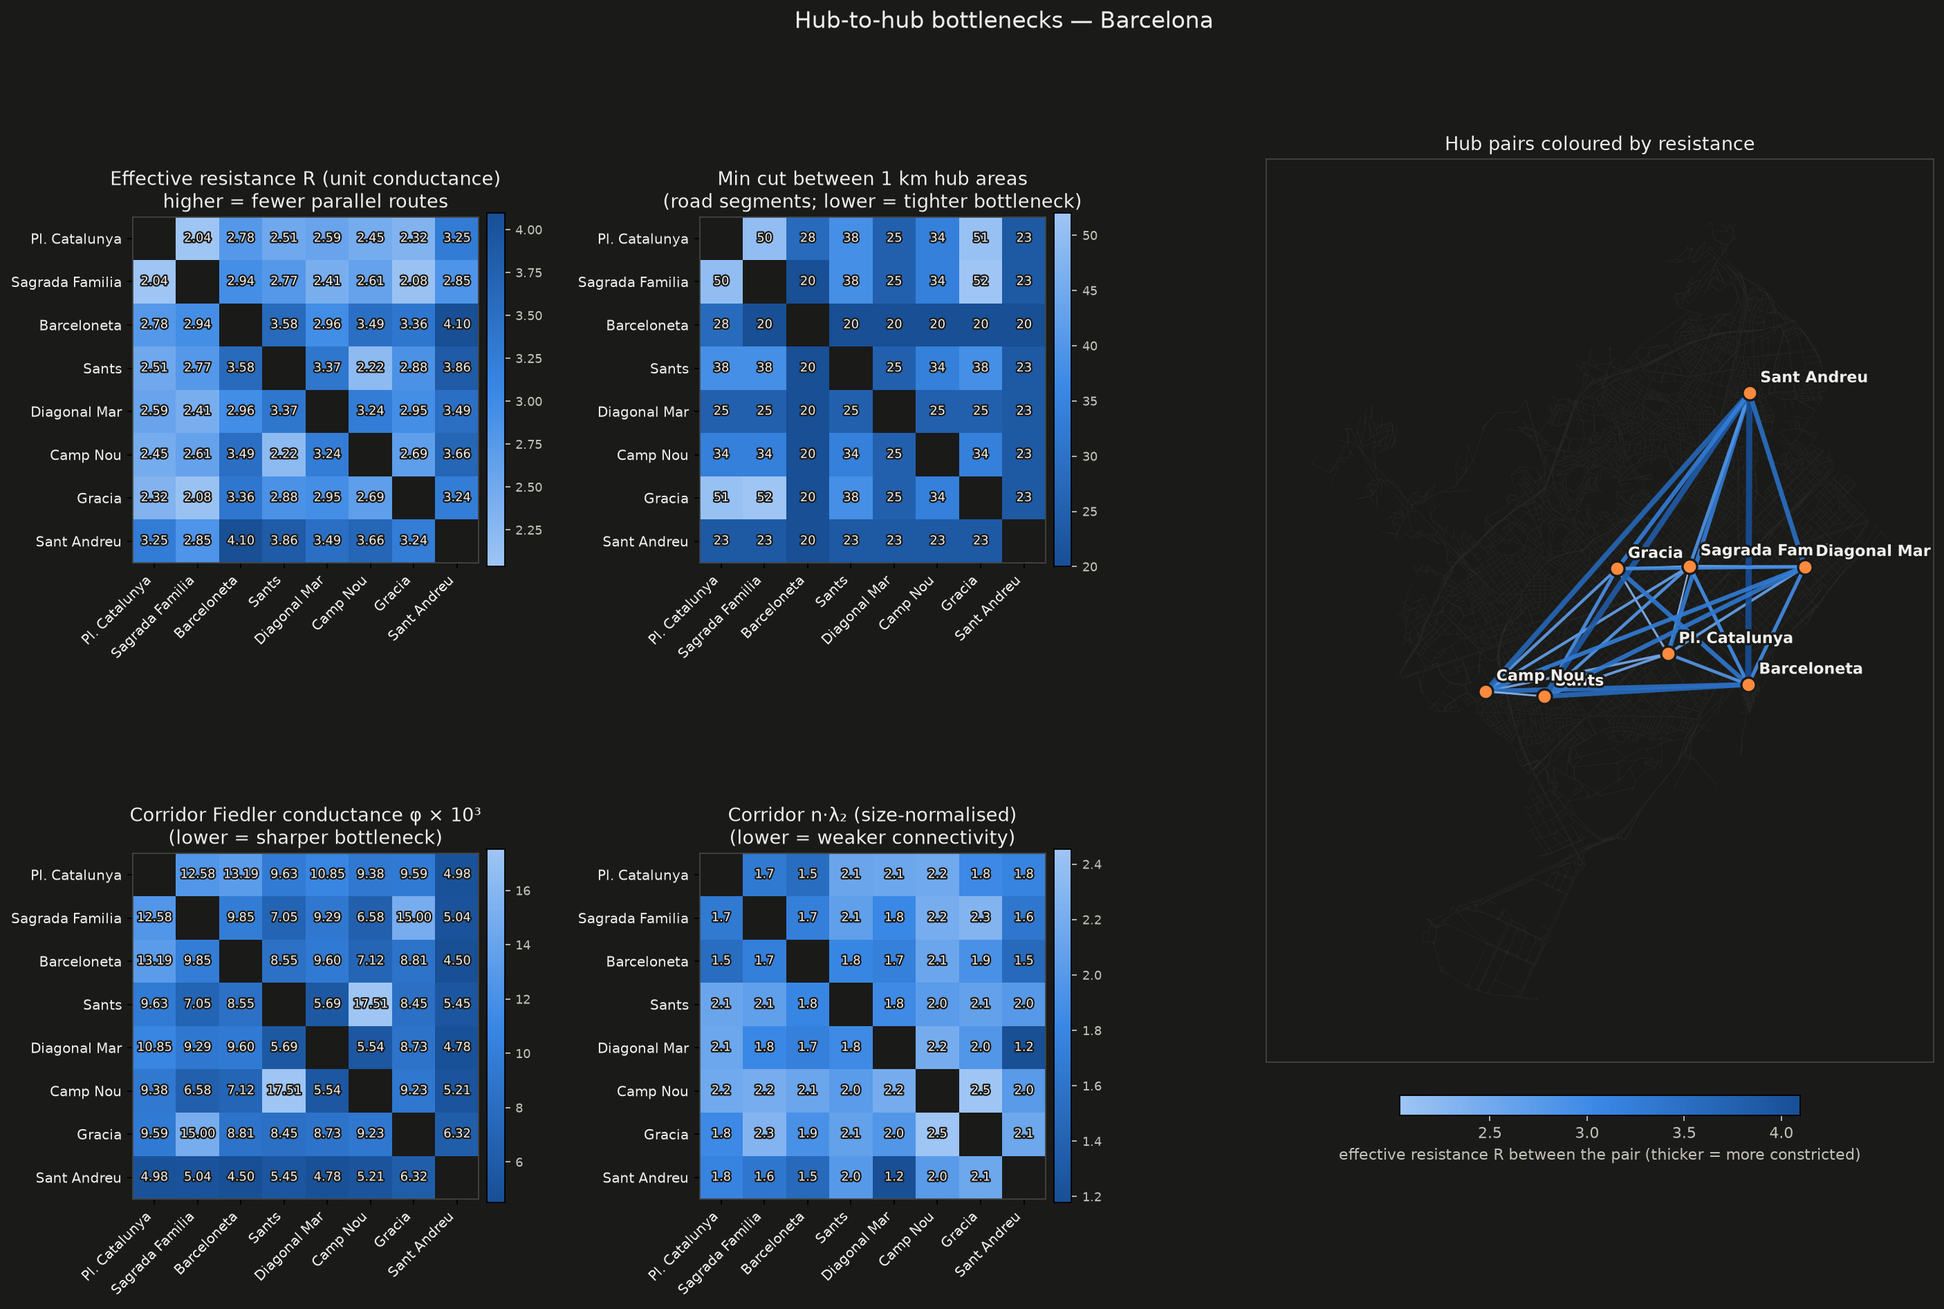
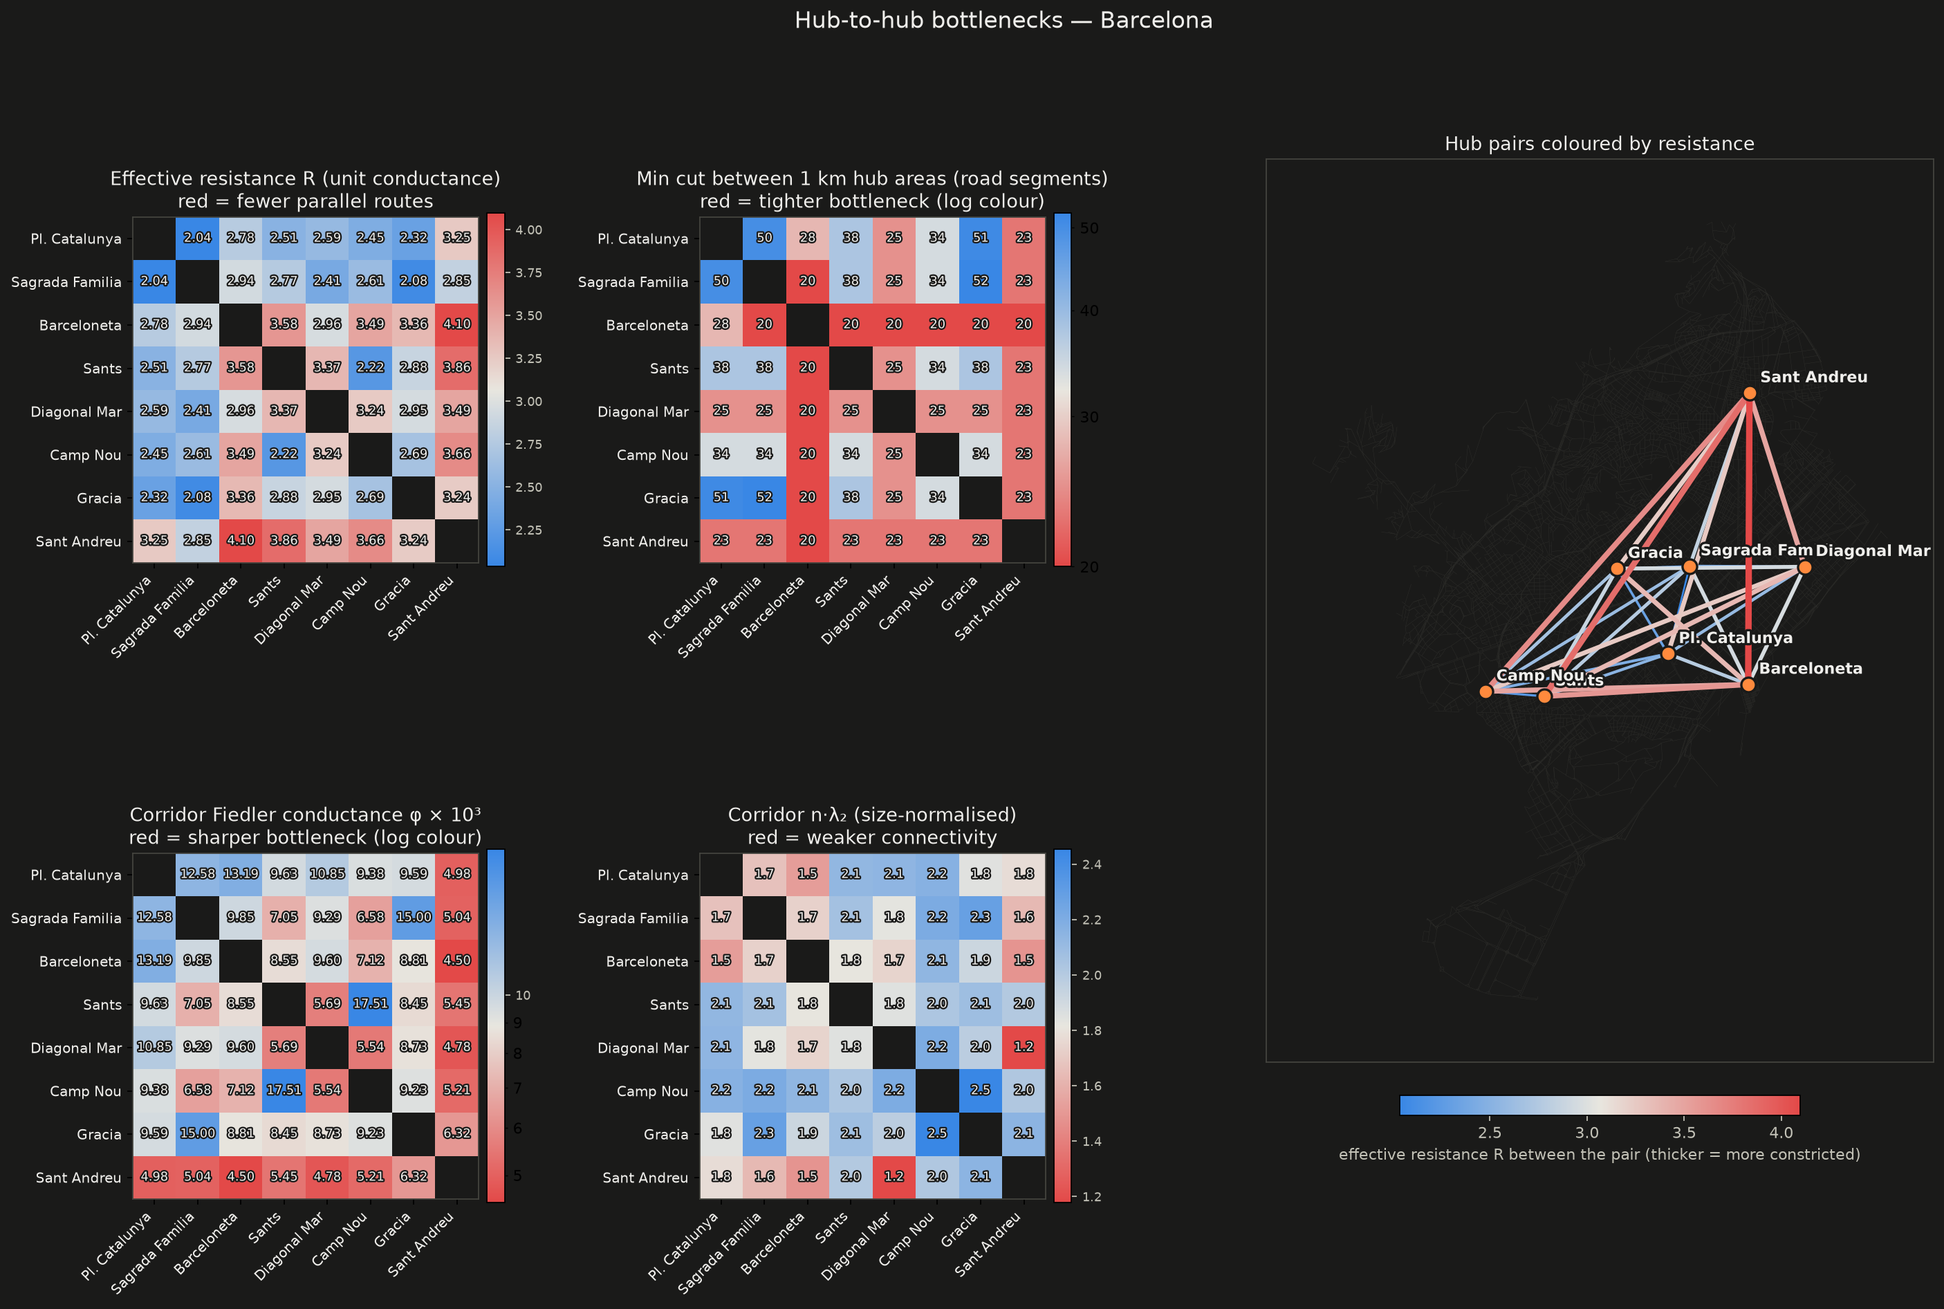
Hub bottleneck figures: red-blue diverging colours, --plot-only redraw
Red = worse connection (high R, low min cut, low phi, low n*lambda_2), blue = better,
light neutral midpoint; log colour for min cut and phi. --plot-only redraws the
figure from the saved CSV without the LU / min-cut recompute.

diff --git a/hub_bottlenecks.py b/hub_bottlenecks.py
@@ -15,7 +15,7 @@ Bottlenecks between named hubs of a city, three ways per hub pair:
 Hub coordinates are approximate centres, snapped to the nearest junction; hubs more than
 1.5 km from the network (outside the municipal boundary) are dropped.
 
-Usage:  python hub_bottlenecks.py [path/to/graph.graphml]
+Usage:  python hub_bottlenecks.py [path/to/graph.graphml] [--plot-only]
 Writes results/<tag>_hub_bottlenecks.csv, results/<tag>_hub_bottlenecks_report.txt,
 figures/<tag>_hub_bottlenecks_dark.png
 """
@@ -39,7 +39,9 @@ from scipy.spatial import cKDTree
 from graph_utils import classify_cuts, load_simple, log, set_min_cut, sweep_cut, to_km
 
 sys.stdout.reconfigure(encoding="utf-8")
-GRAPH = sys.argv[1] if len(sys.argv) > 1 else "data/bengaluru_city_bengaluru_drive.graphml"
+ARGS = [a for a in sys.argv[1:] if not a.startswith("--")]
+PLOT_ONLY = "--plot-only" in sys.argv          # redraw the figure from the saved CSV
+GRAPH = ARGS[0] if ARGS else "data/bengaluru_city_bengaluru_drive.graphml"
 tag = os.path.splitext(os.path.basename(GRAPH))[0]
 CITY = tag.split("_")[0].capitalize()
 os.makedirs("figures", exist_ok=True)
@@ -83,109 +85,119 @@ for name, (la, lo) in HUBS[tag.split("_")[0]].items():
     log(f"hub {name:16s} -> node {nodes[i]} ({d * 1000:.0f} m away)")
 H = len(hubs)
 hix = np.array([i for _, i in hubs])
-# roads leaving each hub's 1 km area: a pair's min cut can never exceed the smaller of the two
-area = [{nodes[i] for i in tree.query_ball_point(P[h], NBHD_KM)} for _, h in hubs]
-area_out = [sum(1 for _ in nx.edge_boundary(S, a_)) for a_ in area]
-for (n_, _), k_ in zip(hubs, area_out):
-    log(f"  {n_:16s}: {k_} road segments leave its {NBHD_KM:.0f} km area")
+if not PLOT_ONLY:
+    # roads leaving each hub's 1 km area: a pair's min cut can never exceed the smaller of the two
+    area = [{nodes[i] for i in tree.query_ball_point(P[h], NBHD_KM)} for _, h in hubs]
+    area_out = [sum(1 for _ in nx.edge_boundary(S, a_)) for a_ in area]
+    for (n_, _), k_ in zip(hubs, area_out):
+        log(f"  {n_:16s}: {k_} road segments leave its {NBHD_KM:.0f} km area")
 
-# ---------------------------------------------------------------- 1. effective resistance
-def resistance_matrix(weight):
-    A = nx.to_scipy_sparse_array(S, nodelist=nodes, weight=weight, format="csr", dtype=float)
-    if weight == "length":
-        A.data = 1.0 / np.maximum(A.data / 1000.0, 1e-3)    # conductance = 1 / length (km)
-    L = laplacian(A).tocsc()
-    g = next(i for i in range(len(nodes)) if i not in set(hix))   # ground a non-hub node
-    keep = np.ones(len(nodes), bool)
-    keep[g] = False
-    Lg = L[keep][:, keep].tocsc()
-    pos_in_g = np.cumsum(keep) - 1
-    t0 = time.time()
-    lu = splu(Lg)
-    B = np.zeros((Lg.shape[0], H))
-    B[pos_in_g[hix], np.arange(H)] = 1.0
-    X = lu.solve(B)[pos_in_g[hix]]                    # H x H block of Lg^-1
-    log(f"effective resistance ({weight or 'unit'}) via LU [{time.time() - t0:.0f}s]")
-    d = np.diag(X)
-    return d[:, None] + d[None, :] - 2 * X
+    # ---------------------------------------------------------------- 1. effective resistance
+    def resistance_matrix(weight):
+        A = nx.to_scipy_sparse_array(S, nodelist=nodes, weight=weight, format="csr", dtype=float)
+        if weight == "length":
+            A.data = 1.0 / np.maximum(A.data / 1000.0, 1e-3)    # conductance = 1 / length (km)
+        L = laplacian(A).tocsc()
+        g = next(i for i in range(len(nodes)) if i not in set(hix))   # ground a non-hub node
+        keep = np.ones(len(nodes), bool)
+        keep[g] = False
+        Lg = L[keep][:, keep].tocsc()
+        pos_in_g = np.cumsum(keep) - 1
+        t0 = time.time()
+        lu = splu(Lg)
+        B = np.zeros((Lg.shape[0], H))
+        B[pos_in_g[hix], np.arange(H)] = 1.0
+        X = lu.solve(B)[pos_in_g[hix]]                    # H x H block of Lg^-1
+        log(f"effective resistance ({weight or 'unit'}) via LU [{time.time() - t0:.0f}s]")
+        d = np.diag(X)
+        return d[:, None] + d[None, :] - 2 * X
 
 
-R_unit = resistance_matrix(None)
-R_len = resistance_matrix("length")
+    R_unit = resistance_matrix(None)
+    R_len = resistance_matrix("length")
 
-# ---------------------------------------------------------------- 2 + 3. corridors and min cuts
-rows = []
-for a, b in itertools.combinations(range(H), 2):
-    (na, ia), (nb, ib) = hubs[a], hubs[b]
-    pa, pb = P[ia], P[ib]
-    dab = float(np.hypot(*(pa - pb)))
-    ell = np.hypot(*(P - pa).T) + np.hypot(*(P - pb).T) <= 1.3 * dab + 2.0
-    C = S.subgraph([nodes[i] for i in np.flatnonzero(ell)])
-    C = C.subgraph(max(nx.connected_components(C), key=len)).copy()
-    cn = list(C.nodes)
-    Ac = nx.to_scipy_sparse_array(C, nodelist=cn, weight=None, format="csr", dtype=float)
-    sw = sweep_cut(Ac)
-    ci = {u: i for i, u in enumerate(cn)}
-    splits = (nodes[ia] in ci and nodes[ib] in ci and sw["side"][ci[nodes[ia]]] != sw["side"][ci[nodes[ib]]])
+    # ---------------------------------------------------------------- 2 + 3. corridors and min cuts
+    rows = []
+    for a, b in itertools.combinations(range(H), 2):
+        (na, ia), (nb, ib) = hubs[a], hubs[b]
+        pa, pb = P[ia], P[ib]
+        dab = float(np.hypot(*(pa - pb)))
+        ell = np.hypot(*(P - pa).T) + np.hypot(*(P - pb).T) <= 1.3 * dab + 2.0
+        C = S.subgraph([nodes[i] for i in np.flatnonzero(ell)])
+        C = C.subgraph(max(nx.connected_components(C), key=len)).copy()
+        cn = list(C.nodes)
+        Ac = nx.to_scipy_sparse_array(C, nodelist=cn, weight=None, format="csr", dtype=float)
+        sw = sweep_cut(Ac)
+        ci = {u: i for i, u in enumerate(cn)}
+        splits = (nodes[ia] in ci and nodes[ib] in ci and sw["side"][ci[nodes[ia]]] != sw["side"][ci[nodes[ib]]])
 
-    src, snk = area[a], area[b]
-    common = src & snk
-    t0 = time.time()
-    cut, cut_edges = set_min_cut(S, src - common, snk - common)
-    limit = (f"{na} access roads" if cut == area_out[a] else f"{nb} access roads" if cut == area_out[b] else "")
-    rows.append(dict(hub_a=na, hub_b=nb, dist_km=dab, R_unit=R_unit[a, b], R_len_km=R_len[a, b],
-                     corridor_n=len(cn), lam2=sw["lam2"], n_lam2=len(cn) * sw["lam2"], phi=sw["phi_bal"],
-                     sweep_cut_edges=sw["n_cut"], splits=bool(splits), min_cut=cut, cut_limited_by=limit,
-                     src_n=len(src), snk_n=len(snk)))
-    log(f"{na} - {nb}: d={dab:.1f} km  R={R_unit[a, b]:.2f}  phi={sw['phi_bal']:.2e}  "
-        f"min cut={cut}  [{time.time() - t0:.0f}s]")
+        src, snk = area[a], area[b]
+        common = src & snk
+        t0 = time.time()
+        cut, cut_edges = set_min_cut(S, src - common, snk - common)
+        limit = (f"{na} access roads" if cut == area_out[a] else f"{nb} access roads" if cut == area_out[b] else "")
+        rows.append(dict(hub_a=na, hub_b=nb, dist_km=dab, R_unit=R_unit[a, b], R_len_km=R_len[a, b],
+                         corridor_n=len(cn), lam2=sw["lam2"], n_lam2=len(cn) * sw["lam2"], phi=sw["phi_bal"],
+                         sweep_cut_edges=sw["n_cut"], splits=bool(splits), min_cut=cut, cut_limited_by=limit,
+                         src_n=len(src), snk_n=len(snk)))
+        log(f"{na} - {nb}: d={dab:.1f} km  R={R_unit[a, b]:.2f}  phi={sw['phi_bal']:.2e}  "
+            f"min cut={cut}  [{time.time() - t0:.0f}s]")
 
-# Where does each min cut sit? If a hub's cut is the same number to (nearly) every other hub,
-# the choke point is in that hub's own catchment, not in the corridor between the pair.
-where = classify_cuts([(r_["hub_a"], r_["hub_b"], r_["min_cut"]) for r_ in rows])
-for r_ in rows:
-    r_["cut_limited_by"] = r_["cut_limited_by"] or where[(r_["hub_a"], r_["hub_b"])]
+    # Where does each min cut sit? If a hub's cut is the same number to (nearly) every other hub,
+    # the choke point is in that hub's own catchment, not in the corridor between the pair.
+    where = classify_cuts([(r_["hub_a"], r_["hub_b"], r_["min_cut"]) for r_ in rows])
+    for r_ in rows:
+        r_["cut_limited_by"] = r_["cut_limited_by"] or where[(r_["hub_a"], r_["hub_b"])]
 
-with open(f"results/{tag}_hub_bottlenecks.csv", "w", newline="", encoding="utf-8") as f:
-    w = csv.DictWriter(f, fieldnames=list(rows[0]))
-    w.writeheader()
-    w.writerows(rows)
+    with open(f"results/{tag}_hub_bottlenecks.csv", "w", newline="", encoding="utf-8") as f:
+        w = csv.DictWriter(f, fieldnames=list(rows[0]))
+        w.writeheader()
+        w.writerows(rows)
 
-# ---------------------------------------------------------------- report
-rep = (f"================= Hub-to-hub bottlenecks: {tag} =================\n"
-       f"Graph: giant component, simple undirected, n = {len(nodes):,}, m = {S.number_of_edges():,}\n"
-       f"Hubs ({H}): " + ", ".join(n for n, _ in hubs) + "\n\n"
-       f"Road segments leaving each hub's {NBHD_KM:.0f} km area (an upper limit on every min cut involving it):\n  "
-       + ", ".join(f"{n_} {k_}" for (n_, _), k_ in zip(hubs, area_out)) + "\n\n"
-       f"{'pair':36s}{'km':>6s}{'R_unit':>8s}{'R_len':>8s}{'n·λ₂':>8s}{'φ':>10s}{'splits':>7s}{'min cut':>8s}"
-       f"  limited by\n")
-for r_ in sorted(rows, key=lambda r_: r_["min_cut"]):
-    rep += (f"{r_['hub_a'] + ' – ' + r_['hub_b']:36s}{r_['dist_km']:6.1f}{r_['R_unit']:8.2f}{r_['R_len_km']:8.2f}"
-            f"{r_['n_lam2']:8.2f}{r_['phi']:10.2e}{'yes' if r_['splits'] else 'no':>7s}{r_['min_cut']:8d}"
-            f"  {r_['cut_limited_by']}\n")
-Ru = np.array([r_["R_unit"] for r_ in rows])
-dk = np.array([r_["dist_km"] for r_ in rows])
-mc = np.array([r_["min_cut"] for r_ in rows])
-slope, icpt = np.polyfit(np.log(dk), Ru, 1)
-rep += (f"\nR_unit vs distance: R ≈ {icpt:.2f} + {slope:.2f}·ln(d km)  (a 2-D grid gives R ∝ ln d)\n"
-        f"Median R_unit {np.median(Ru):.2f}, median min cut {np.median(mc):.0f} segments, "
-        f"median corridor φ {np.median([r_['phi'] for r_ in rows]):.2e}\n"
-        f"Pairs whose corridor bottleneck lies between the hubs (splits = yes): "
-        f"{sum(r_['splits'] for r_ in rows)}/{len(rows)}\n"
-        f"Where the min cut sits: in one hub's own catchment (same cut to nearly every other hub) "
-        f"{sum(r_['cut_limited_by'].startswith('near ') for r_ in rows)}/{len(rows)}, "
-        f"in the corridor between the hubs {sum(r_['cut_limited_by'] == 'between hubs' for r_ in rows)}/{len(rows)}, "
-        f"at a hub's 1 km access roads {sum(r_['cut_limited_by'].endswith('access roads') for r_ in rows)}/{len(rows)}\n"
-        f"Choked hubs: " + (", ".join(sorted({r_['cut_limited_by'][5:] for r_ in rows
-                                                if r_['cut_limited_by'].startswith('near ')})) or "none") + "\n")
-resid = Ru - (icpt + slope * np.log(dk))
-worst = np.argsort(-resid)[:3]
-rep += "Most constricted pairs for their distance (largest R above the trend):\n"
-for i in worst:
-    rep += f"  {rows[i]['hub_a']} – {rows[i]['hub_b']}: R = {Ru[i]:.2f} (+{resid[i]:.2f} over trend), min cut {mc[i]}\n"
-print(rep)
-with open(f"results/{tag}_hub_bottlenecks_report.txt", "w", encoding="utf-8") as f:
-    f.write(rep)
+    # ---------------------------------------------------------------- report
+    rep = (f"================= Hub-to-hub bottlenecks: {tag} =================\n"
+           f"Graph: giant component, simple undirected, n = {len(nodes):,}, m = {S.number_of_edges():,}\n"
+           f"Hubs ({H}): " + ", ".join(n for n, _ in hubs) + "\n\n"
+           f"Road segments leaving each hub's {NBHD_KM:.0f} km area (an upper limit on every min cut involving it):\n  "
+           + ", ".join(f"{n_} {k_}" for (n_, _), k_ in zip(hubs, area_out)) + "\n\n"
+           f"{'pair':36s}{'km':>6s}{'R_unit':>8s}{'R_len':>8s}{'n·λ₂':>8s}{'φ':>10s}{'splits':>7s}{'min cut':>8s}"
+           f"  limited by\n")
+    for r_ in sorted(rows, key=lambda r_: r_["min_cut"]):
+        rep += (f"{r_['hub_a'] + ' – ' + r_['hub_b']:36s}{r_['dist_km']:6.1f}{r_['R_unit']:8.2f}{r_['R_len_km']:8.2f}"
+                f"{r_['n_lam2']:8.2f}{r_['phi']:10.2e}{'yes' if r_['splits'] else 'no':>7s}{r_['min_cut']:8d}"
+                f"  {r_['cut_limited_by']}\n")
+    Ru = np.array([r_["R_unit"] for r_ in rows])
+    dk = np.array([r_["dist_km"] for r_ in rows])
+    mc = np.array([r_["min_cut"] for r_ in rows])
+    slope, icpt = np.polyfit(np.log(dk), Ru, 1)
+    rep += (f"\nR_unit vs distance: R ≈ {icpt:.2f} + {slope:.2f}·ln(d km)  (a 2-D grid gives R ∝ ln d)\n"
+            f"Median R_unit {np.median(Ru):.2f}, median min cut {np.median(mc):.0f} segments, "
+            f"median corridor φ {np.median([r_['phi'] for r_ in rows]):.2e}\n"
+            f"Pairs whose corridor bottleneck lies between the hubs (splits = yes): "
+            f"{sum(r_['splits'] for r_ in rows)}/{len(rows)}\n"
+            f"Where the min cut sits: in one hub's own catchment (same cut to nearly every other hub) "
+            f"{sum(r_['cut_limited_by'].startswith('near ') for r_ in rows)}/{len(rows)}, "
+            f"in the corridor between the hubs {sum(r_['cut_limited_by'] == 'between hubs' for r_ in rows)}/{len(rows)}, "
+            f"at a hub's 1 km access roads {sum(r_['cut_limited_by'].endswith('access roads') for r_ in rows)}/{len(rows)}\n"
+            f"Choked hubs: " + (", ".join(sorted({r_['cut_limited_by'][5:] for r_ in rows
+                                                    if r_['cut_limited_by'].startswith('near ')})) or "none") + "\n")
+    resid = Ru - (icpt + slope * np.log(dk))
+    worst = np.argsort(-resid)[:3]
+    rep += "Most constricted pairs for their distance (largest R above the trend):\n"
+    for i in worst:
+        rep += f"  {rows[i]['hub_a']} – {rows[i]['hub_b']}: R = {Ru[i]:.2f} (+{resid[i]:.2f} over trend), min cut {mc[i]}\n"
+    print(rep)
+    with open(f"results/{tag}_hub_bottlenecks_report.txt", "w", encoding="utf-8") as f:
+        f.write(rep)
+
+else:  # --plot-only: redraw from the saved CSV, no LU / min-cut recompute
+    with open(f"results/{tag}_hub_bottlenecks.csv", newline="", encoding="utf-8") as f:
+        rows = list(csv.DictReader(f))
+    for r_ in rows:
+        for k_ in ("dist_km", "R_unit", "R_len_km", "lam2", "n_lam2", "phi"):
+            r_[k_] = float(r_[k_])
+        r_["min_cut"] = int(r_["min_cut"])
+    log(f"plot-only: {len(rows)} pairs from results/{tag}_hub_bottlenecks.csv")
 
 # ---------------------------------------------------------------- figure
 log("plotting ...")
@@ -193,14 +205,18 @@ names = [n for n, _ in hubs]
 fig = plt.figure(figsize=(21, 13), dpi=160)
 fig.patch.set_facecolor(SURFACE)
 gs = fig.add_gridspec(2, 3, width_ratios=[1, 1, 1.6], hspace=0.35, wspace=0.3)
-SEQ = mpl.colors.LinearSegmentedColormap.from_list("seq", ["#184f95", "#3987e5", "#9ec5f4"])
-SEQ_R = SEQ.reversed()
+# red = worse connection, blue = better; light neutral middle stays visible on the dark surface
+HIGH_BAD = mpl.colors.LinearSegmentedColormap.from_list("hb", ["#3987e5", "#e8e6df", "#e34948"])
+LOW_BAD = HIGH_BAD.reversed()
 
 
-def heat(ax, M, title, fmt, cmap):
+def heat(ax, M, title, fmt, cmap, log_scale=False):
     ax.set_facecolor(SURFACE)
     Mm = np.ma.masked_where(np.eye(H, dtype=bool), M)
-    im = ax.imshow(Mm, cmap=cmap)
+    vals = M[~np.eye(H, dtype=bool)]
+    norm_ = (mpl.colors.LogNorm(vals.min(), vals.max()) if log_scale
+             else mpl.colors.Normalize(vals.min(), vals.max()))
+    im = ax.imshow(Mm, cmap=cmap, norm=norm_)
     for i in range(H):
         for j in range(H):
             if i != j:
@@ -215,6 +231,9 @@ def heat(ax, M, title, fmt, cmap):
     ax.set_title(title, color=INKD, fontsize=12)
     cb = fig.colorbar(im, ax=ax, shrink=0.75, pad=0.02)
     cb.ax.tick_params(colors=SUBD, labelsize=8)
+    if log_scale:                                  # plain numbers, not 4x10^0
+        cb.ax.yaxis.set_major_formatter(mpl.ticker.FormatStrFormatter("%g"))
+        cb.ax.yaxis.set_minor_formatter(mpl.ticker.FormatStrFormatter("%g"))
 
 
 def mat(key):
@@ -225,22 +244,23 @@ def mat(key):
     return M
 
 
-heat(fig.add_subplot(gs[0, 0]), R_unit, "Effective resistance R (unit conductance)\nhigher = fewer parallel routes",
-     ".2f", SEQ_R)
-heat(fig.add_subplot(gs[0, 1]), mat("min_cut"), "Min cut between 1 km hub areas\n(road segments; lower = tighter bottleneck)",
-     ".0f", SEQ)
-heat(fig.add_subplot(gs[1, 0]), 1e3 * mat("phi"), "Corridor Fiedler conductance φ × 10³\n(lower = sharper bottleneck)",
-     ".2f", SEQ)
-heat(fig.add_subplot(gs[1, 1]), mat("n_lam2"), "Corridor n·λ₂ (size-normalised)\n(lower = weaker connectivity)", ".1f", SEQ)
+heat(fig.add_subplot(gs[0, 0]), mat("R_unit"), "Effective resistance R (unit conductance)\nred = fewer parallel routes",
+     ".2f", HIGH_BAD)
+heat(fig.add_subplot(gs[0, 1]), mat("min_cut"), "Min cut between 1 km hub areas (road segments)\nred = tighter bottleneck (log colour)",
+     ".0f", LOW_BAD, log_scale=True)
+heat(fig.add_subplot(gs[1, 0]), 1e3 * mat("phi"), "Corridor Fiedler conductance φ × 10³\nred = sharper bottleneck (log colour)",
+     ".2f", LOW_BAD, log_scale=True)
+heat(fig.add_subplot(gs[1, 1]), mat("n_lam2"), "Corridor n·λ₂ (size-normalised)\nred = weaker connectivity", ".1f", LOW_BAD)
 
 ax = fig.add_subplot(gs[:, 2])
 ax.set_facecolor(SURFACE)
 segs = np.array([[P[idx[u]], P[idx[v]]] for u, v in S.edges])
 ax.add_collection(LineCollection(segs, colors="#2f2f2c", linewidths=0.2, zorder=1))
+Ru = np.array([r_["R_unit"] for r_ in rows])
 norm = mpl.colors.Normalize(Ru.min(), Ru.max())
-for r_ in rows:
+for r_ in sorted(rows, key=lambda r_: r_["R_unit"]):          # worst pairs drawn on top
     pa, pb = P[hubs[names.index(r_["hub_a"])][1]], P[hubs[names.index(r_["hub_b"])][1]]
-    ax.plot(*zip(pa, pb), color=SEQ_R(norm(r_["R_unit"])), lw=1 + 3 * norm(r_["R_unit"]), zorder=2, alpha=0.9)
+    ax.plot(*zip(pa, pb), color=HIGH_BAD(norm(r_["R_unit"])), lw=1.2 + 3 * norm(r_["R_unit"]), zorder=2)
 halo = [mpl.patheffects.withStroke(linewidth=3, foreground=SURFACE)]
 for n_, i in hubs:
     ax.scatter(*P[i], s=90, color=ORANGE, zorder=4, edgecolors=SURFACE, linewidths=1.5)
@@ -253,7 +273,7 @@ ax.set_yticks([])
 for s_ in ax.spines.values():
     s_.set_color(SPINE)
 ax.margins(0.08)                                      # room for hub labels at the edges
-sm = mpl.cm.ScalarMappable(norm=norm, cmap=SEQ_R)
+sm = mpl.cm.ScalarMappable(norm=norm, cmap=HIGH_BAD)
 cb = fig.colorbar(sm, ax=ax, orientation="horizontal", shrink=0.6, pad=0.03)
 cb.set_label("effective resistance R between the pair (thicker = more constricted)", color=SUBD)
 cb.ax.tick_params(colors=SUBD)
